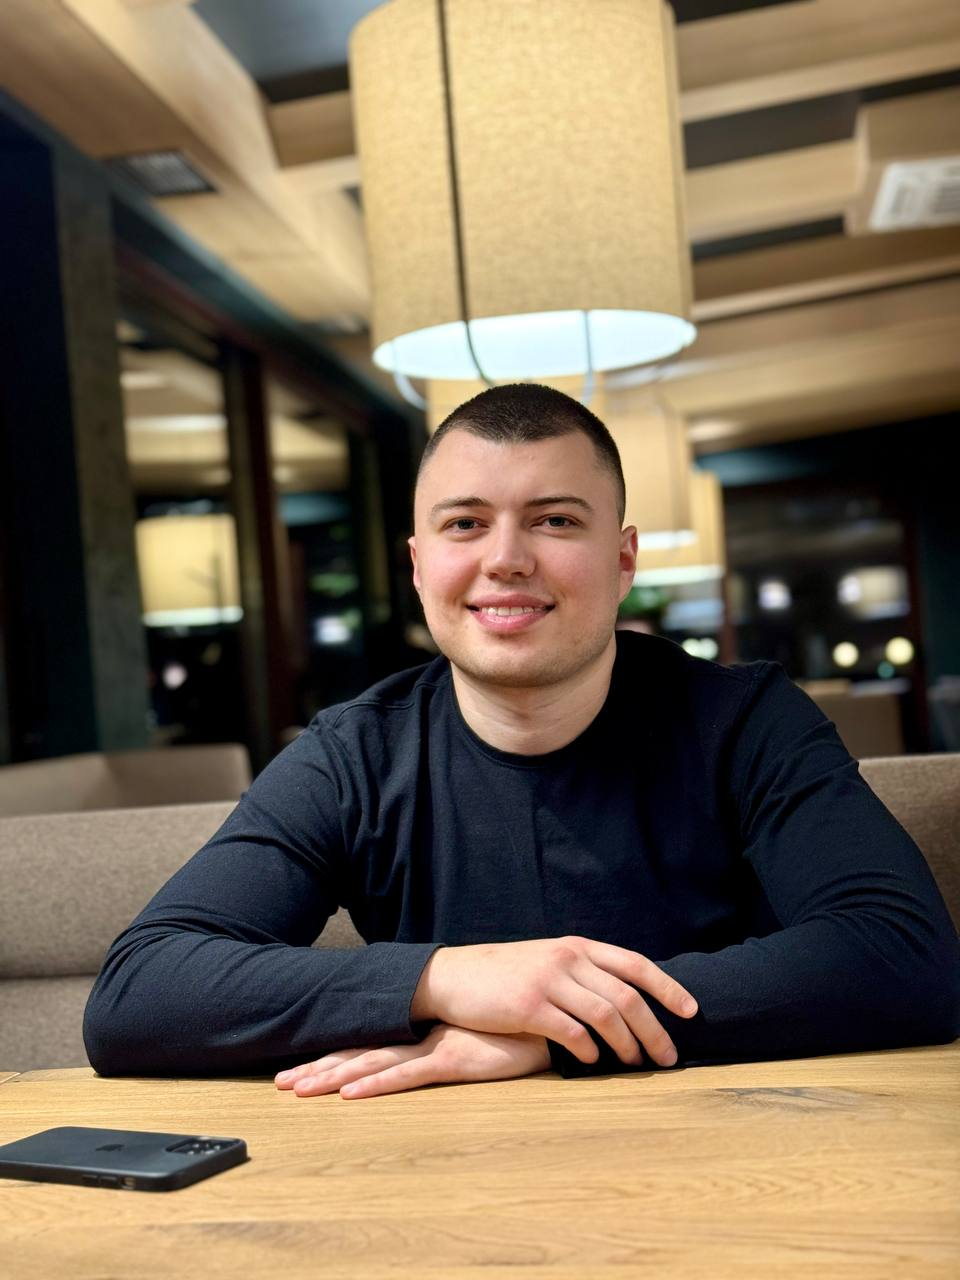
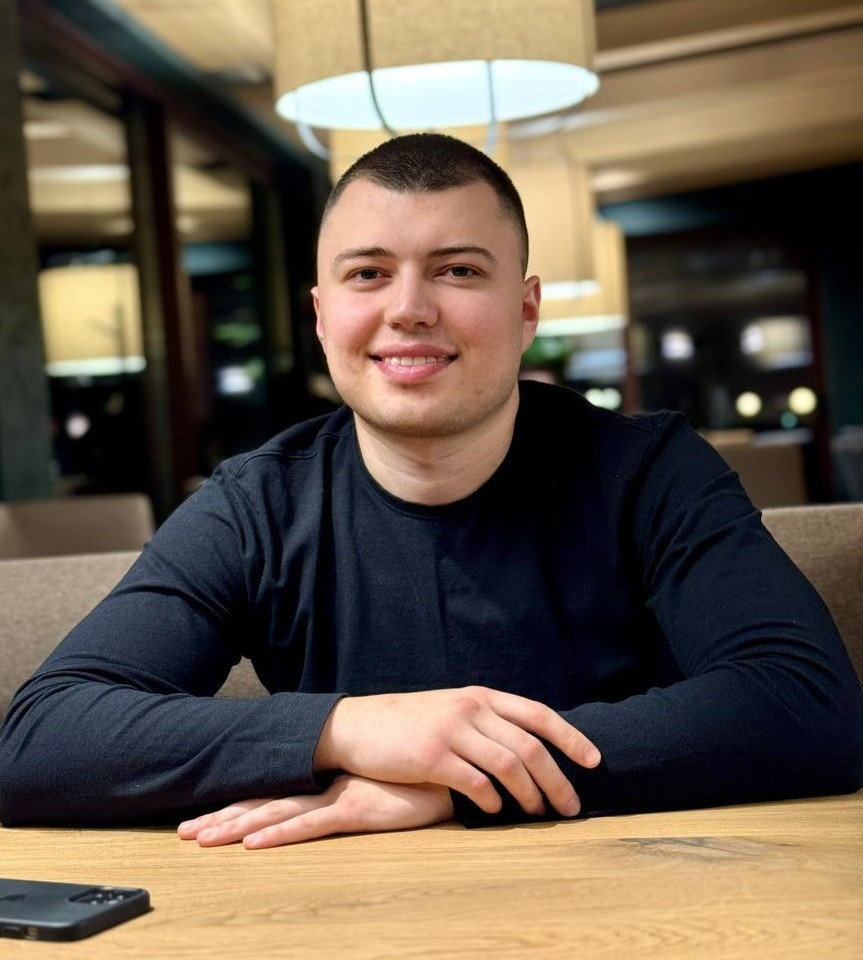
style: added media queries for tablets to the header

diff --git a/public/index.html b/public/index.html
@@ -16,7 +16,7 @@
       <div class="skew-box"></div>
       <picture>
         <source
-          media="(min-width: 900px)"
+          media="(min-width: 768px)"
           srcset="../src/assets/images/desktop.jpg"
         />
         <img src="../src/assets/images/mobile.jpg" alt="dev portrait" />
@@ -25,6 +25,7 @@
           Bochko
         </figcaption>
       </picture>
+      <h3>Miroslav Bochko</h3>
     </header>
     <div class="about-me">
       <h3>About Me</h3>
@@ -244,6 +245,23 @@
         Email: your.email@example.com<br />
         Phone: +123 456 7890</span
       >
+      <div class="links">
+        <img
+          src="../src/assets/svg/github-white.svg"
+          alt="git hub logo"
+          class="links-logo"
+        />
+        <img
+          src="../src/assets/svg/linkedin-white.svg"
+          alt="linkedin logo"
+          class="links-logo"
+        />
+        <img
+          src="../src/assets/svg/twitter-blue.svg"
+          alt="twitter logo"
+          class="links-logo"
+        />
+      </div>
     </footer>
   </body>
 </html>

diff --git a/src/styles/styles.css b/src/styles/styles.css
@@ -23,12 +23,6 @@ header {
   transform-origin: top left;
 }
 
-@media (max-width: 380px) {
-  .skew-box {
-    min-height: 80vh;
-  }
-}
-
 picture {
   position: absolute;
   margin: 30px;
@@ -157,7 +151,7 @@ footer {
   display: flex;
   flex-direction: column;
   padding: 5%;
-  min-height: 500px;
+  min-height: 600px;
   background-color: rgb(1, 157, 196);
   color: var(--text-color);
 }
@@ -172,6 +166,7 @@ footer h3 {
 
 footer p {
   margin-top: 5%;
+  margin-bottom: 5%;
   text-align: center;
   font-size: 1.5rem;
   font-weight: 100;
@@ -184,4 +179,20 @@ footer span {
 
 .address {
   margin-top: 5%;
+}
+
+@media (max-width: 380px) {
+  .skew-box {
+    min-height: 80vh;
+  }
+}
+
+@media (min-width: 768px) {
+  figcaption {
+    visibility: hidden;
+  }
+
+  picture {
+    width: 51%;
+  }
 }
